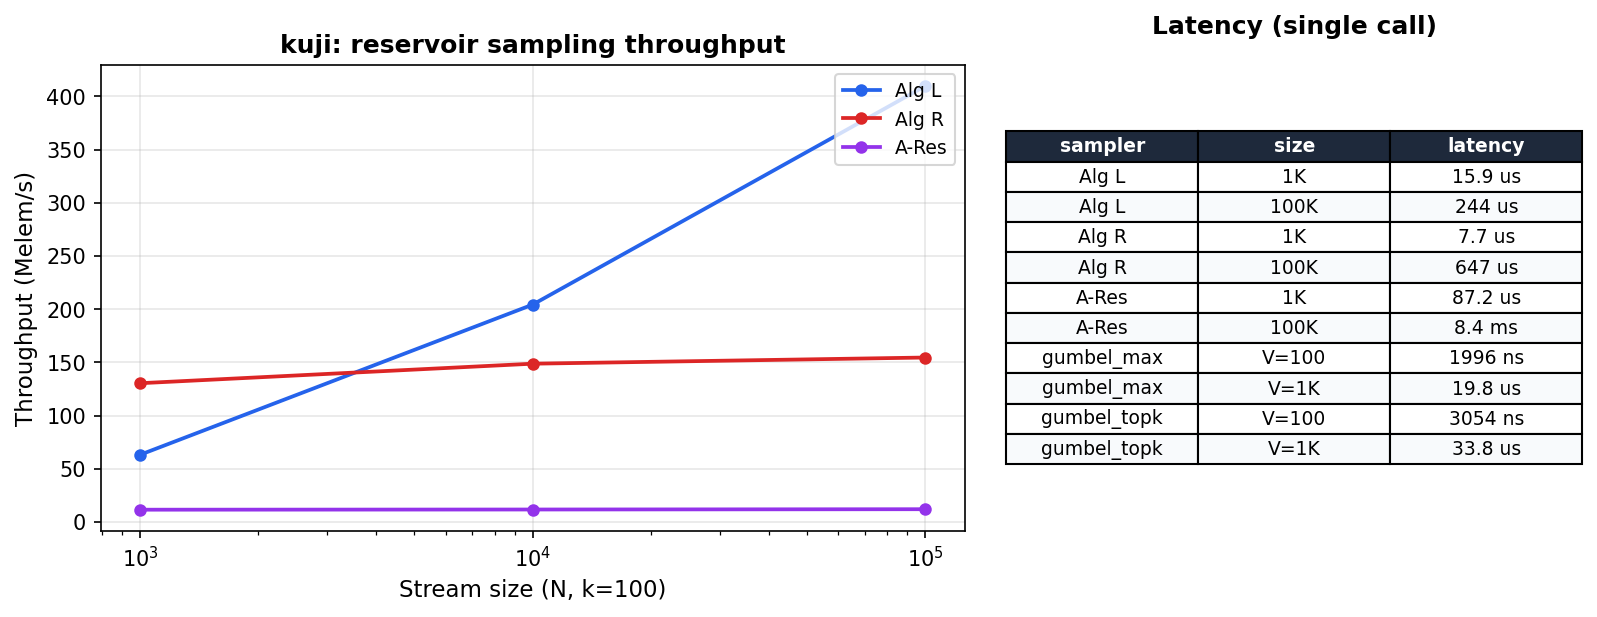
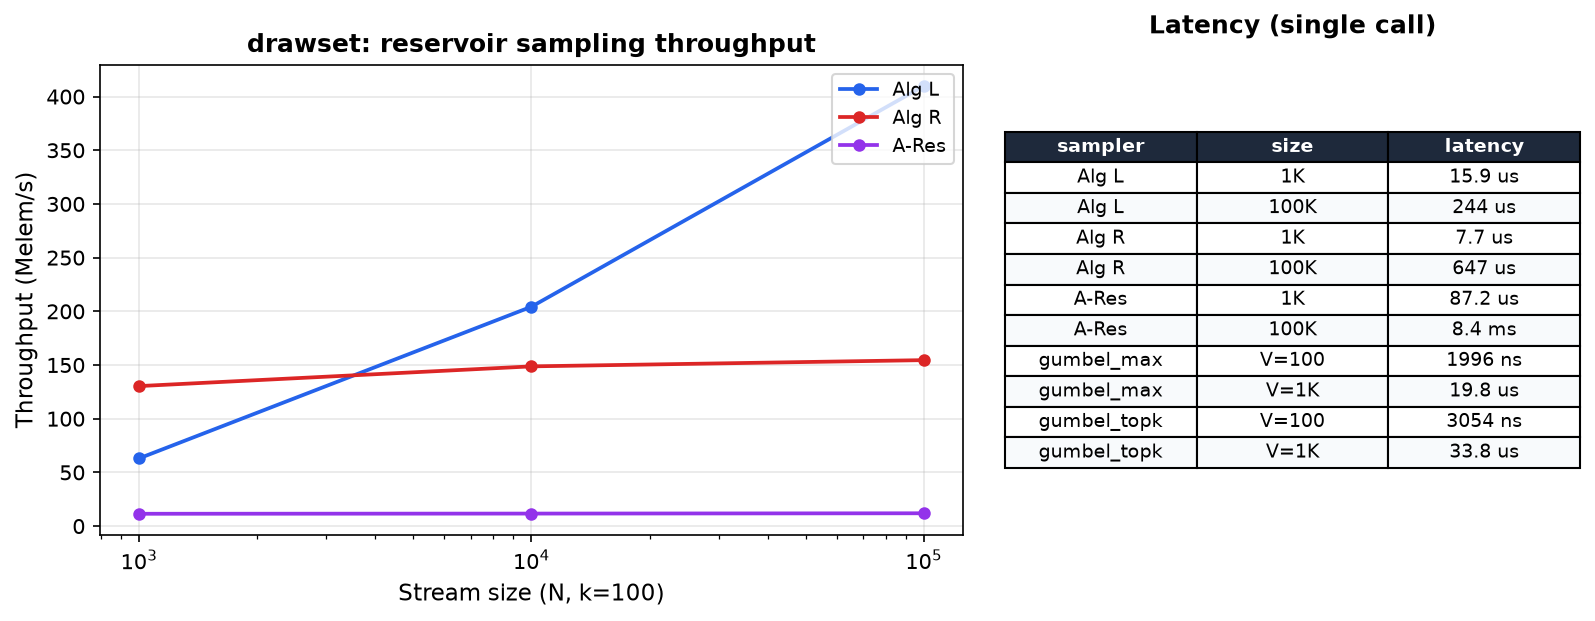
drawset: update benchmark plot label

diff --git a/scripts/plot_bench.py b/scripts/plot_bench.py
@@ -2,7 +2,7 @@
 # requires-python = ">=3.11"
 # dependencies = ["matplotlib"]
 # ///
-"""Generate throughput benchmark plot for kuji README."""
+"""Generate throughput benchmark plot for the drawset README."""
 
 import matplotlib
 matplotlib.use("Agg")
@@ -34,7 +34,7 @@ for name, data in [("Alg L", alg_l), ("Alg R", alg_r), ("A-Res", a_res)]:
 
 ax1.set_xlabel("Stream size (N, k=100)", fontsize=11)
 ax1.set_ylabel("Throughput (Melem/s)", fontsize=11)
-ax1.set_title("kuji: reservoir sampling throughput", fontsize=12, fontweight="bold")
+ax1.set_title("drawset: reservoir sampling throughput", fontsize=12, fontweight="bold")
 ax1.legend(frameon=True, fontsize=9, loc="upper right")
 ax1.set_xscale("log")
 ax1.grid(True, alpha=0.3)
@@ -73,6 +73,6 @@ for i in range(1, len(table_data) + 1):
         table[i, j].set_facecolor("#f8fafc" if i % 2 == 0 else "white")
 
 fig.tight_layout(pad=2.0)
-out = "/Users/arc/Documents/dev/kuji/docs/bench_throughput.png"
+out = "/Users/arc/Documents/dev/drawset/docs/bench_throughput.png"
 fig.savefig(out, dpi=150, bbox_inches="tight", facecolor="white")
 print(f"Saved {out}")